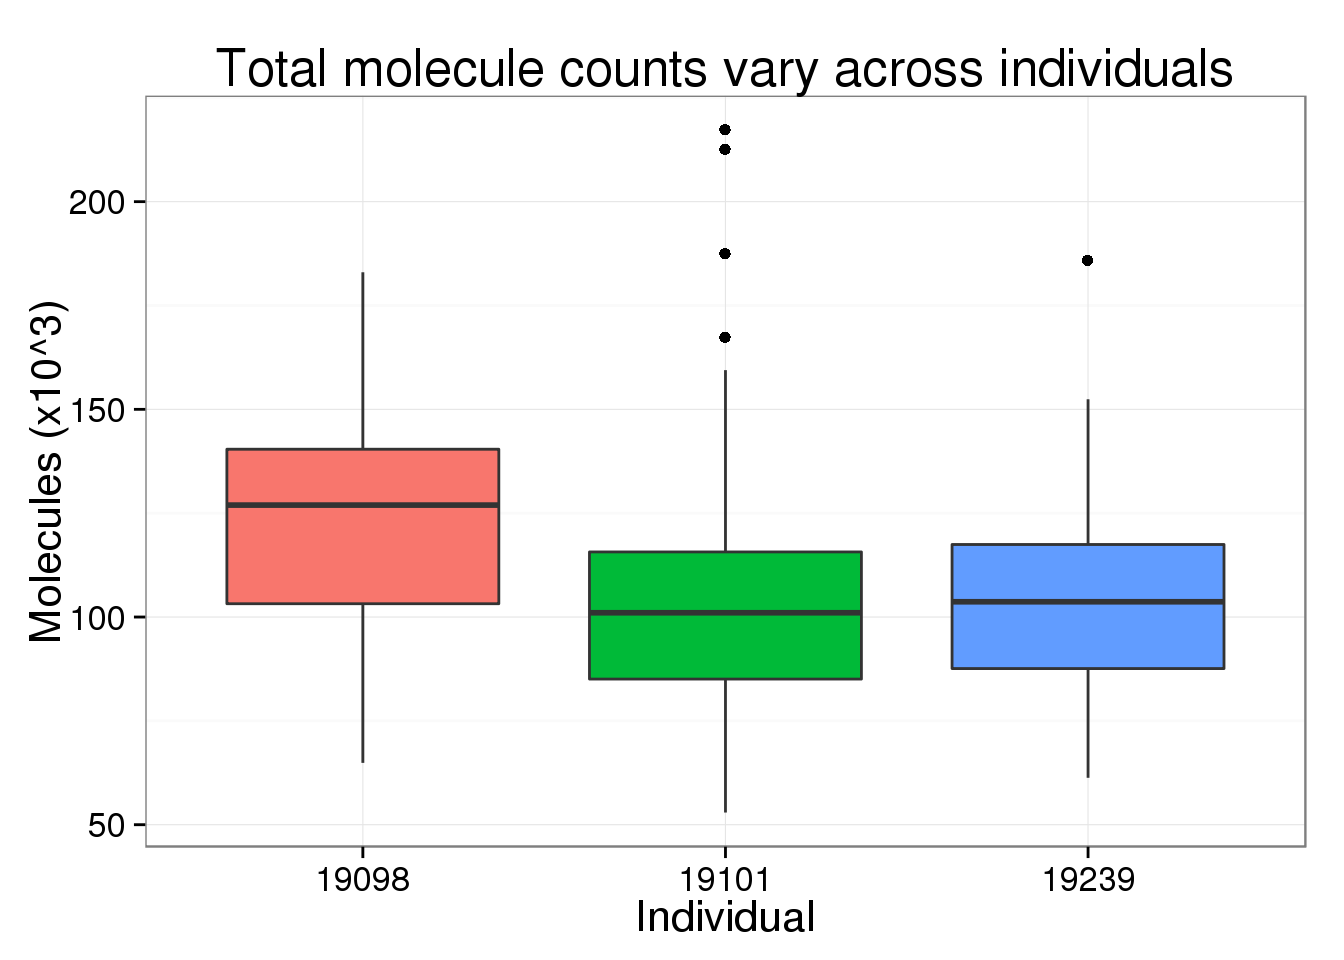
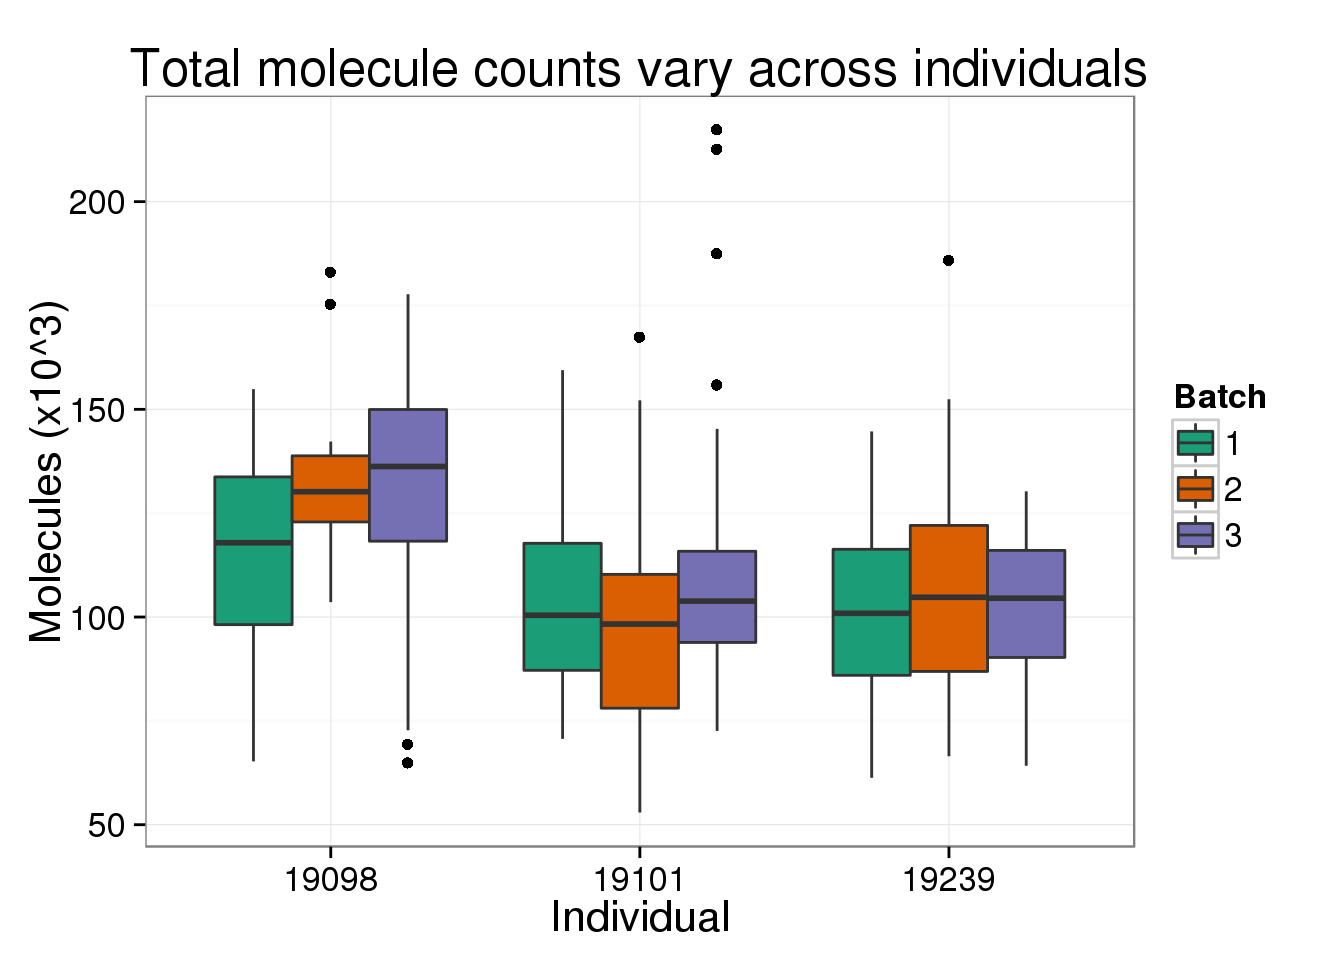
Build site.

diff --git a/analysis/compare-reads-v-molecules.html b/analysis/compare-reads-v-molecules.html
@@ -130,13 +130,14 @@ img {
 <li><a href="#calculate-counts-per-million-cpm">Calculate counts per million (cpm)</a></li>
 <li><a href="#compare-reads-and-molecules">Compare reads and molecules</a></li>
 <li><a href="#effect-of-sequencing-depth-on-molecule-count">Effect of sequencing depth on molecule count</a></li>
+<li><a href="#differences-in-conversion-of-reads-to-molecules">Differences in conversion of reads to molecules</a></li>
 <li><a href="#compare-reads-and-standardized-molecules">Compare reads and standardized molecules</a></li>
 <li><a href="#session-information">Session information</a></li>
 </ul>
 </div>
 
-<p><strong>Last updated:</strong> 2015-08-11</p>
-<p><strong>Code version:</strong> 2f8997a273da647825038f59564eca77b21b6770</p>
+<p><strong>Last updated:</strong> 2015-08-12</p>
+<p><strong>Code version:</strong> 8953c4390a66131968daddff3bb0658c71099199</p>
 <p>First, compared counts via three methods:</p>
 <ul>
 <li><strong>reads_cpm</strong> - standard counts per million</li>
@@ -151,7 +152,8 @@ img {
 library(&quot;ggplot2&quot;)
 theme_set(theme_bw(base_size = 16))
 library(&quot;edgeR&quot;)
-source(&quot;functions.R&quot;)</code></pre>
+source(&quot;functions.R&quot;)
+library(&quot;tidyr&quot;)</code></pre>
 <p>Input annotation.</p>
 <pre class="r"><code>anno &lt;- read.table(&quot;../data/annotation.txt&quot;, header = TRUE,
                    stringsAsFactors = FALSE)
@@ -294,8 +296,8 @@ total_counts_bulk</code></pre>
 <p>Also, there is a difference in total molecule count between the three individuals.</p>
 <pre class="r"><code>total_molecules_ind &lt;- ggplot(total_counts_data[total_counts_data$well != &quot;bulk&quot;, ],
                               aes(x = as.factor(individual), y = total_molecules)) +
-  geom_boxplot(aes(fill = as.factor(individual))) +
-  theme(legend.position=&quot;none&quot;) +
+  geom_boxplot(aes(fill = as.factor(batch))) +
+  scale_fill_brewer(type = &quot;qual&quot;, palette = &quot;Dark2&quot;, name =&quot;Batch&quot;) +
   labs(x = &quot;Individual&quot;,
        y = &quot;Molecules (x10^3)&quot;,
        title = &quot;Total molecule counts vary across individuals&quot;)
@@ -346,6 +348,43 @@ pc1_v_total_mol_corrected</code></pre>
 pc2_v_total_mol_corrected</code></pre>
 <p><img src="figure/compare-reads-v-molecules.Rmd/pc2-v-total-molecules-corrected-1.png" title="" alt="" width="672" style="display: block; margin: auto;" /></p>
 <p>PC1 is no longer associated with sequencing depth!</p>
+</div>
+<div id="differences-in-conversion-of-reads-to-molecules" class="section level2">
+<h2>Differences in conversion of reads to molecules</h2>
+<p>As seen above with the total counts, the conversion of reads to molecules varies between each of the 9 batches. Below I fit a loess transformation to each individually. It would be ideal if we could somehow we could correct for these differences and have them all follow a similar transformation from reads to molecules.</p>
+<p>In order to be able to make this plot, I have to subsample to fewer genes.</p>
+<pre class="r"><code>set.seed(12345)
+sub_indices &lt;- sample(1:nrow(reads), 250)
+reads_sub &lt;- reads[sub_indices, ]
+reads_long &lt;- gather(reads_sub, key = &quot;id&quot;, value = &quot;reads&quot;)
+molecules_sub &lt;- molecules[sub_indices, ]
+molecules_long &lt;- gather(molecules_sub, key = &quot;id&quot;, value = &quot;molecules&quot;)
+reads_long &lt;- separate(reads_long, col = &quot;id&quot;,  sep = &quot;\\.&quot;, remove = FALSE,
+                       into = c(&quot;individual&quot;, &quot;batch&quot;, &quot;well&quot;))
+stopifnot(reads_long$id == molecules_long$id)
+conversion &lt;- cbind(reads_long, molecules_long)
+stopifnot(nrow(conversion) == nrow(molecules_long))
+dim(conversion)</code></pre>
+<pre><code>[1] 146750      7</code></pre>
+<pre class="r"><code>head(conversion)</code></pre>
+<pre><code>             id individual batch well reads            id molecules
+1 NA19098.1.A01    NA19098     1  A01     0 NA19098.1.A01         0
+2 NA19098.1.A01    NA19098     1  A01     5 NA19098.1.A01         5
+3 NA19098.1.A01    NA19098     1  A01     0 NA19098.1.A01         0
+4 NA19098.1.A01    NA19098     1  A01     1 NA19098.1.A01         1
+5 NA19098.1.A01    NA19098     1  A01     0 NA19098.1.A01         0
+6 NA19098.1.A01    NA19098     1  A01    57 NA19098.1.A01         7</code></pre>
+<pre class="r"><code>ggplot(conversion[conversion$well != &quot;bulk&quot;, ],
+       aes(x = reads, y = molecules, col = individual,
+           shape = as.factor(batch))) +
+  geom_point() +
+  geom_smooth(method = &quot;loess&quot;, color = &quot;black&quot;) +
+  facet_grid(batch ~ individual) +
+  theme(legend.position = &quot;none&quot;) +
+  labs(x = &quot;Total number of reads&quot;,
+       y = &quot;Total number of molecules&quot;,
+       title = &quot;Conversion per batch (subsample of 250 genes)&quot;)</code></pre>
+<p><img src="figure/compare-reads-v-molecules.Rmd/convert-reads-molecules-per-batch-1.png" title="" alt="" width="864" style="display: block; margin: auto;" /></p>
 </div>
 <div id="compare-reads-and-standardized-molecules" class="section level2">
 <h2>Compare reads and standardized molecules</h2>
@@ -403,16 +442,19 @@ attached base packages:
 [1] stats     graphics  grDevices utils     datasets  methods   base     
 
 other attached packages:
-[1] testit_0.4    edgeR_3.10.2  limma_3.24.9  ggplot2_1.0.1 dplyr_0.4.1  
-[6] knitr_1.10.5 
+[1] testit_0.4    tidyr_0.2.0   edgeR_3.10.2  limma_3.24.9  ggplot2_1.0.1
+[6] dplyr_0.4.1   knitr_1.10.5 
 
 loaded via a namespace (and not attached):
- [1] Rcpp_0.11.6      magrittr_1.5     MASS_7.3-40      munsell_0.4.2   
- [5] colorspace_1.2-6 stringr_1.0.0    plyr_1.8.2       tools_3.2.0     
- [9] parallel_3.2.0   grid_3.2.0       gtable_0.1.2     DBI_0.3.1       
-[13] htmltools_0.2.6  yaml_2.1.13      assertthat_0.1   digest_0.6.8    
-[17] reshape2_1.4.1   formatR_1.2      evaluate_0.7     rmarkdown_0.6.1 
-[21] labeling_0.3     stringi_0.4-1    scales_0.2.4     proto_0.3-10    </code></pre>
+ [1] Rcpp_0.11.6        magrittr_1.5       MASS_7.3-40       
+ [4] munsell_0.4.2      colorspace_1.2-6   stringr_1.0.0     
+ [7] plyr_1.8.2         tools_3.2.0        parallel_3.2.0    
+[10] grid_3.2.0         gtable_0.1.2       DBI_0.3.1         
+[13] htmltools_0.2.6    yaml_2.1.13        assertthat_0.1    
+[16] digest_0.6.8       RColorBrewer_1.1-2 reshape2_1.4.1    
+[19] formatR_1.2        evaluate_0.7       rmarkdown_0.6.1   
+[22] labeling_0.3       stringi_0.4-1      scales_0.2.4      
+[25] proto_0.3-10      </code></pre>
 </div>
 
 
